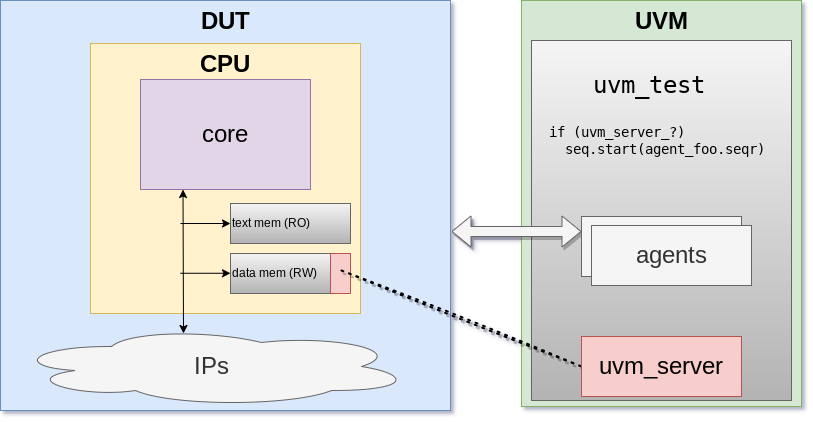
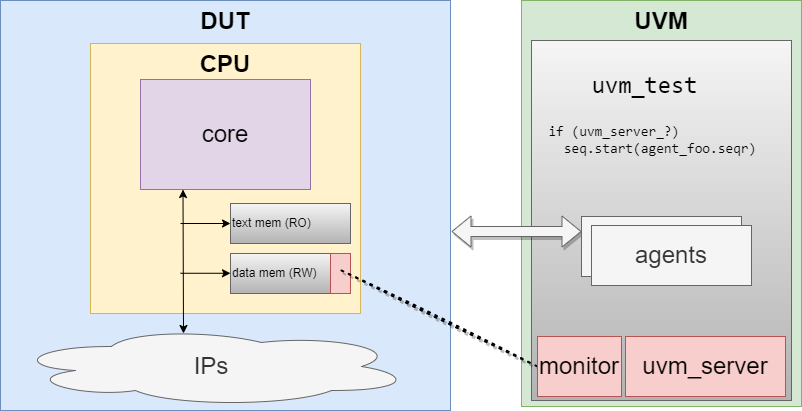
chore(README): better png

diff --git a/riscv/README.md b/riscv/README.md
@@ -11,7 +11,6 @@ Write system-level tests in C, make them communicate with a UVM server
     - SW clear bit when done
   - put all uvm_server fucntions in uvm_server.sv (no split in test + uvm_server.sv)
   - make monitor appear in the png
-  - interface: sperate non generic code (backdoor access)
 
 
 # Agenda
